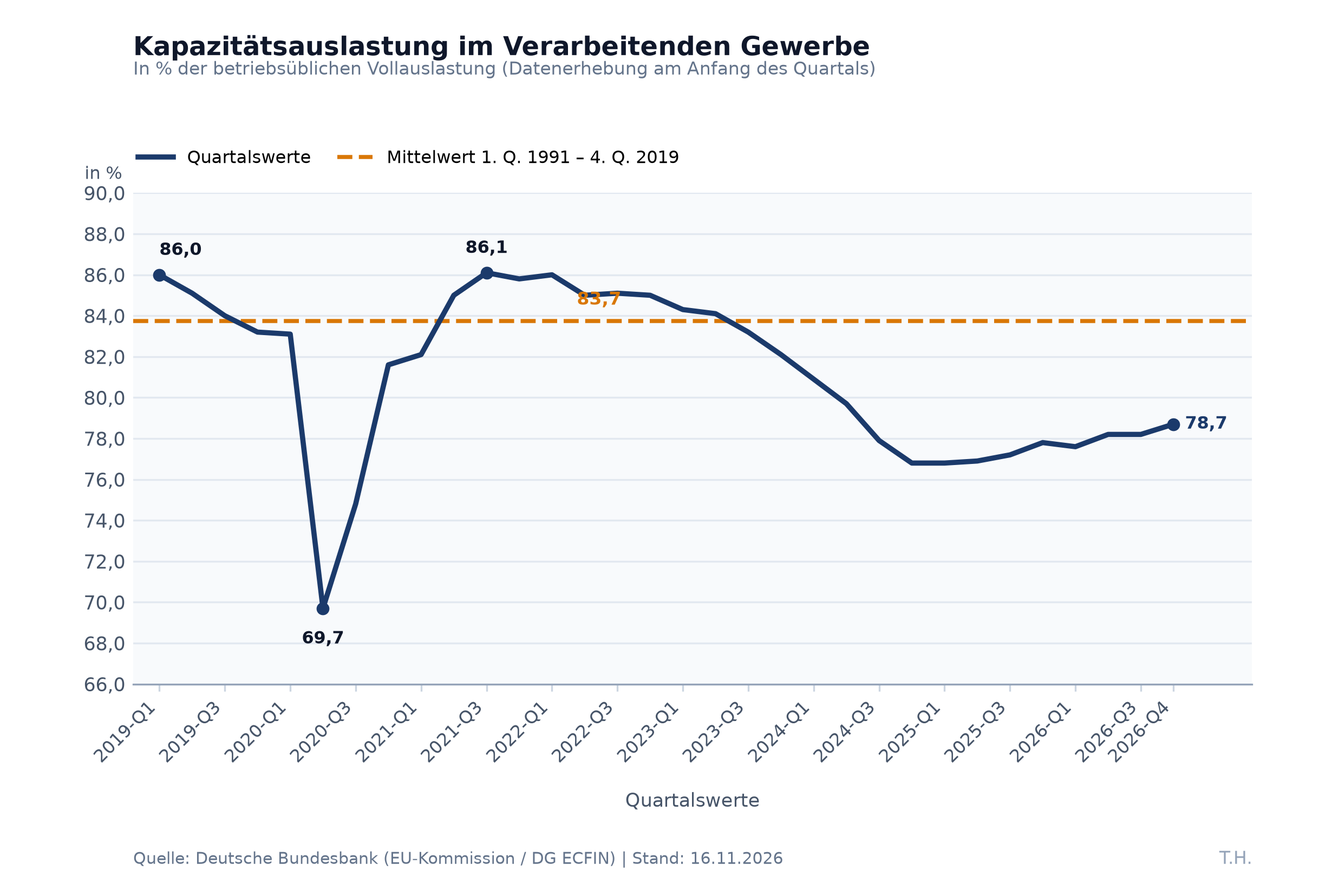
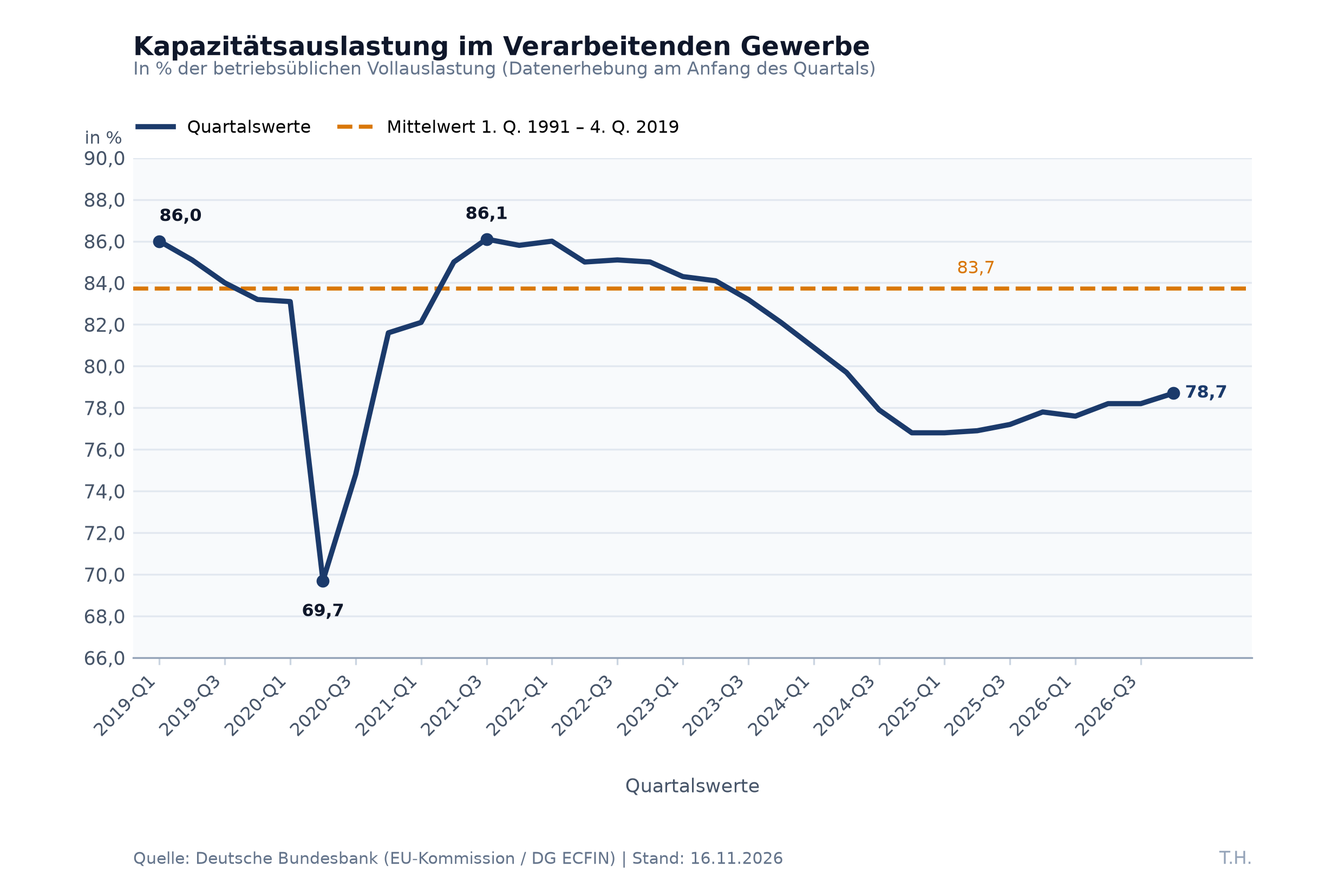
Update Kapazitaetsauslastung charts

Changed region(s): [[0.0618, 0.1235, 0.9268, 0.8642], [0.8341, 0.4321, 0.9268, 0.4938], [0.4634, 0.8951, 0.587, 0.9259]]

diff --git a/static/kapazitaetsauslastung/kapazitaetsauslastung.html b/static/kapazitaetsauslastung/kapazitaetsauslastung.html
@@ -5,7 +5,7 @@
     <style>html, body {height: 100%;}</style>
 </head>
 <body style="margin:0;padding:0;overflow:hidden;">
-    <div style="height:460px; width:100%;">                        <script>window.PlotlyConfig = {MathJaxConfig: 'local'};</script>
-        <script charset="utf-8" src="https://cdn.plot.ly/plotly-4.1.1.min.js" integrity="sha256-O24V1F27f8pb0glCkelh3cVHLNiHAJ5gCaVtq2aNch8=" crossorigin="anonymous"></script>                <div id="517f9091-6f31-4fb6-b747-08f232824f48" class="plotly-graph-div" style="height:100%; width:100%;"></div>            <script>                window.PLOTLYENV=window.PLOTLYENV || {};                                if (document.getElementById("517f9091-6f31-4fb6-b747-08f232824f48")) {                    Plotly.newPlot(                        "517f9091-6f31-4fb6-b747-08f232824f48",                        [{"customdata":["86,0","85,1","84,0","83,2","83,1","69,7","74,8","81,6","82,1","85,0","86,1","85,8","86,0","85,0","85,1","85,0","84,3","84,1","83,2","82,1","80,9","79,7","77,9","76,8","76,8","76,9","77,2","77,8","77,6","78,2","78,2","78,7"],"hovertemplate":"Quartalswerte: \u003cb\u003e%{customdata} %\u003c\u002fb\u003e\u003cextra\u003e\u003c\u002fextra\u003e","line":{"color":"#1B3A6B","width":2.4},"mode":"lines","name":"Quartalswerte","x":["2019-Q1","2019-Q2","2019-Q3","2019-Q4","2020-Q1","2020-Q2","2020-Q3","2020-Q4","2021-Q1","2021-Q2","2021-Q3","2021-Q4","2022-Q1","2022-Q2","2022-Q3","2022-Q4","2023-Q1","2023-Q2","2023-Q3","2023-Q4","2024-Q1","2024-Q2","2024-Q3","2024-Q4","2025-Q1","2025-Q2","2025-Q3","2025-Q4","2026-Q1","2026-Q2","2026-Q3","2026-Q4"],"y":[86.0,85.1,84.0,83.2,83.1,69.7,74.8,81.6,82.1,85.0,86.1,85.8,86.0,85.0,85.1,85.0,84.3,84.1,83.2,82.1,80.9,79.7,77.9,76.8,76.8,76.9,77.2,77.8,77.6,78.2,78.2,78.7],"type":"scatter"},{"customdata":["83,7","83,7","83,7","83,7","83,7","83,7","83,7","83,7","83,7","83,7","83,7","83,7","83,7","83,7","83,7","83,7","83,7","83,7","83,7","83,7","83,7","83,7","83,7","83,7","83,7","83,7","83,7","83,7","83,7","83,7","83,7","83,7"],"hovertemplate":"Mittelwert 1. Q. 1991 \u2013 4. Q. 2019: \u003cb\u003e%{customdata} %\u003c\u002fb\u003e\u003cextra\u003e\u003c\u002fextra\u003e","line":{"color":"#D97706","dash":"dash","width":1.9},"mode":"lines","name":"Mittelwert 1. Q. 1991 \u2013 4. Q. 2019","x":["2019-Q1","2019-Q2","2019-Q3","2019-Q4","2020-Q1","2020-Q2","2020-Q3","2020-Q4","2021-Q1","2021-Q2","2021-Q3","2021-Q4","2022-Q1","2022-Q2","2022-Q3","2022-Q4","2023-Q1","2023-Q2","2023-Q3","2023-Q4","2024-Q1","2024-Q2","2024-Q3","2024-Q4","2025-Q1","2025-Q2","2025-Q3","2025-Q4","2026-Q1","2026-Q2","2026-Q3","2026-Q4"],"y":[83.7,83.7,83.7,83.7,83.7,83.7,83.7,83.7,83.7,83.7,83.7,83.7,83.7,83.7,83.7,83.7,83.7,83.7,83.7,83.7,83.7,83.7,83.7,83.7,83.7,83.7,83.7,83.7,83.7,83.7,83.7,83.7],"type":"scatter"},{"hoverinfo":"skip","marker":{"color":"#1B3A6B","size":6},"mode":"markers+text","showlegend":false,"text":["86,0","69,7","86,1","78,7"],"textfont":{"color":"#0F172A","family":"DejaVu Sans, sans-serif","size":10},"textposition":["top center","bottom center","top center","middle right"],"x":["2019-Q1","2020-Q2","2021-Q3","2026-Q4"],"y":[86.0,69.7,86.1,78.7],"type":"scatter"}],                        {"template":{"data":{"histogram2dcontour":[{"type":"histogram2dcontour","colorbar":{"outlinewidth":0,"ticks":""},"colorscale":[[0.0,"#0d0887"],[0.1111111111111111,"#46039f"],[0.2222222222222222,"#7201a8"],[0.3333333333333333,"#9c179e"],[0.4444444444444444,"#bd3786"],[0.5555555555555556,"#d8576b"],[0.6666666666666666,"#ed7953"],[0.7777777777777778,"#fb9f3a"],[0.8888888888888888,"#fdca26"],[1.0,"#f0f921"]]}],"choropleth":[{"type":"choropleth","colorbar":{"outlinewidth":0,"ticks":""}}],"histogram2d":[{"type":"histogram2d","colorbar":{"outlinewidth":0,"ticks":""},"colorscale":[[0.0,"#0d0887"],[0.1111111111111111,"#46039f"],[0.2222222222222222,"#7201a8"],[0.3333333333333333,"#9c179e"],[0.4444444444444444,"#bd3786"],[0.5555555555555556,"#d8576b"],[0.6666666666666666,"#ed7953"],[0.7777777777777778,"#fb9f3a"],[0.8888888888888888,"#fdca26"],[1.0,"#f0f921"]]}],"heatmap":[{"type":"heatmap","colorbar":{"outlinewidth":0,"ticks":""},"colorscale":[[0.0,"#0d0887"],[0.1111111111111111,"#46039f"],[0.2222222222222222,"#7201a8"],[0.3333333333333333,"#9c179e"],[0.4444444444444444,"#bd3786"],[0.5555555555555556,"#d8576b"],[0.6666666666666666,"#ed7953"],[0.7777777777777778,"#fb9f3a"],[0.8888888888888888,"#fdca26"],[1.0,"#f0f921"]]}],"contourcarpet":[{"type":"contourcarpet","colorbar":{"outlinewidth":0,"ticks":""}}],"contour":[{"type":"contour","colorbar":{"outlinewidth":0,"ticks":""},"colorscale":[[0.0,"#0d0887"],[0.1111111111111111,"#46039f"],[0.2222222222222222,"#7201a8"],[0.3333333333333333,"#9c179e"],[0.4444444444444444,"#bd3786"],[0.5555555555555556,"#d8576b"],[0.6666666666666666,"#ed7953"],[0.7777777777777778,"#fb9f3a"],[0.8888888888888888,"#fdca26"],[1.0,"#f0f921"]]}],"surface":[{"type":"surface","colorbar":{"outlinewidth":0,"ticks":""},"colorscale":[[0.0,"#0d0887"],[0.1111111111111111,"#46039f"],[0.2222222222222222,"#7201a8"],[0.3333333333333333,"#9c179e"],[0.4444444444444444,"#bd3786"],[0.5555555555555556,"#d8576b"],[0.6666666666666666,"#ed7953"],[0.7777777777777778,"#fb9f3a"],[0.8888888888888888,"#fdca26"],[1.0,"#f0f921"]]}],"mesh3d":[{"type":"mesh3d","colorbar":{"outlinewidth":0,"ticks":""}}],"scatter":[{"fillpattern":{"fillmode":"overlay","size":10,"solidity":0.2},"type":"scatter"}],"parcoords":[{"type":"parcoords","line":{"colorbar":{"outlinewidth":0,"ticks":""}}}],"scatterpolargl":[{"type":"scatterpolargl","marker":{"colorbar":{"outlinewidth":0,"ticks":""}}}],"bar":[{"error_x":{"color":"#2a3f5f"},"error_y":{"color":"#2a3f5f"},"marker":{"line":{"color":"#E5ECF6","width":0.5},"pattern":{"fillmode":"overlay","size":10,"solidity":0.2}},"type":"bar"}],"scattergeo":[{"type":"scattergeo","marker":{"colorbar":{"outlinewidth":0,"ticks":""}}}],"scatterpolar":[{"type":"scatterpolar","marker":{"colorbar":{"outlinewidth":0,"ticks":""}}}],"histogram":[{"marker":{"pattern":{"fillmode":"overlay","size":10,"solidity":0.2}},"type":"histogram"}],"scattergl":[{"type":"scattergl","marker":{"colorbar":{"outlinewidth":0,"ticks":""}}}],"scatter3d":[{"type":"scatter3d","line":{"colorbar":{"outlinewidth":0,"ticks":""}},"marker":{"colorbar":{"outlinewidth":0,"ticks":""}}}],"scattermap":[{"type":"scattermap","marker":{"colorbar":{"outlinewidth":0,"ticks":""}}}],"scatterternary":[{"type":"scatterternary","marker":{"colorbar":{"outlinewidth":0,"ticks":""}}}],"scattercarpet":[{"type":"scattercarpet","marker":{"colorbar":{"outlinewidth":0,"ticks":""}}}],"carpet":[{"aaxis":{"endlinecolor":"#2a3f5f","gridcolor":"white","linecolor":"white","minorgridcolor":"white","startlinecolor":"#2a3f5f"},"baxis":{"endlinecolor":"#2a3f5f","gridcolor":"white","linecolor":"white","minorgridcolor":"white","startlinecolor":"#2a3f5f"},"type":"carpet"}],"table":[{"cells":{"fill":{"color":"#EBF0F8"},"line":{"color":"white"}},"header":{"fill":{"color":"#C8D4E3"},"line":{"color":"white"}},"type":"table"}],"barpolar":[{"marker":{"line":{"color":"#E5ECF6","width":0.5},"pattern":{"fillmode":"overlay","size":10,"solidity":0.2}},"type":"barpolar"}],"pie":[{"automargin":true,"type":"pie"}]},"layout":{"autotypenumbers":"strict","colorway":["#636efa","#EF553B","#00cc96","#ab63fa","#FFA15A","#19d3f3","#FF6692","#B6E880","#FF97FF","#FECB52"],"font":{"color":"#2a3f5f"},"hovermode":"closest","hoverlabel":{"align":"left"},"paper_bgcolor":"white","plot_bgcolor":"#E5ECF6","polar":{"bgcolor":"#E5ECF6","angularaxis":{"gridcolor":"white","linecolor":"white","ticks":""},"radialaxis":{"gridcolor":"white","linecolor":"white","ticks":""}},"ternary":{"bgcolor":"#E5ECF6","aaxis":{"gridcolor":"white","linecolor":"white","ticks":""},"baxis":{"gridcolor":"white","linecolor":"white","ticks":""},"caxis":{"gridcolor":"white","linecolor":"white","ticks":""}},"coloraxis":{"colorbar":{"outlinewidth":0,"ticks":""}},"colorscale":{"sequential":[[0.0,"#0d0887"],[0.1111111111111111,"#46039f"],[0.2222222222222222,"#7201a8"],[0.3333333333333333,"#9c179e"],[0.4444444444444444,"#bd3786"],[0.5555555555555556,"#d8576b"],[0.6666666666666666,"#ed7953"],[0.7777777777777778,"#fb9f3a"],[0.8888888888888888,"#fdca26"],[1.0,"#f0f921"]],"sequentialminus":[[0.0,"#0d0887"],[0.1111111111111111,"#46039f"],[0.2222222222222222,"#7201a8"],[0.3333333333333333,"#9c179e"],[0.4444444444444444,"#bd3786"],[0.5555555555555556,"#d8576b"],[0.6666666666666666,"#ed7953"],[0.7777777777777778,"#fb9f3a"],[0.8888888888888888,"#fdca26"],[1.0,"#f0f921"]],"diverging":[[0,"#8e0152"],[0.1,"#c51b7d"],[0.2,"#de77ae"],[0.3,"#f1b6da"],[0.4,"#fde0ef"],[0.5,"#f7f7f7"],[0.6,"#e6f5d0"],[0.7,"#b8e186"],[0.8,"#7fbc41"],[0.9,"#4d9221"],[1,"#276419"]]},"xaxis":{"gridcolor":"white","linecolor":"white","ticks":"","title":{"standoff":15},"zerolinecolor":"white","automargin":true,"zerolinewidth":2},"yaxis":{"gridcolor":"white","linecolor":"white","ticks":"","title":{"standoff":15},"zerolinecolor":"white","automargin":true,"zerolinewidth":2},"scene":{"xaxis":{"backgroundcolor":"#E5ECF6","gridcolor":"white","linecolor":"white","showbackground":true,"ticks":"","zerolinecolor":"white","gridwidth":2},"yaxis":{"backgroundcolor":"#E5ECF6","gridcolor":"white","linecolor":"white","showbackground":true,"ticks":"","zerolinecolor":"white","gridwidth":2},"zaxis":{"backgroundcolor":"#E5ECF6","gridcolor":"white","linecolor":"white","showbackground":true,"ticks":"","zerolinecolor":"white","gridwidth":2}},"shapedefaults":{"line":{"color":"#2a3f5f"}},"annotationdefaults":{"arrowcolor":"#2a3f5f","arrowhead":0,"arrowwidth":1},"geo":{"bgcolor":"white","landcolor":"#E5ECF6","subunitcolor":"white","showland":true,"showlakes":true,"lakecolor":"white"},"title":{"x":0.05}}},"title":{"font":{"size":15,"color":"#0F172A","family":"DejaVu Sans, sans-serif"},"text":"\u003cb\u003eKapazit\u00e4tsauslastung im Verarbeitenden Gewerbe\u003c\u002fb\u003e\u003cbr\u003e\u003cspan style='font-size:11.5px;color:#475569;'\u003eIn % der betriebs\u00fcblichen Vollauslastung (Datenerhebung am Anfang des Quartals)\u003c\u002fspan\u003e","x":0.03,"y":0.96,"yanchor":"top"},"hoverlabel":{"font":{"size":10.5,"color":"#0F172A"},"bgcolor":"white","bordercolor":"#CBD5E1","namelength":0},"legend":{"font":{"size":10.5,"color":"#1E293B"},"orientation":"h","x":0.0,"y":1.02,"xanchor":"left","yanchor":"bottom","bgcolor":"rgba(255,255,255,0)"},"margin":{"l":58,"r":42,"t":125,"b":85},"plot_bgcolor":"#F8FAFC","paper_bgcolor":"white","hovermode":"x unified","dragmode":false,"height":460,"annotations":[{"font":{"color":"#D97706","size":11},"showarrow":false,"text":"\u003cb\u003e83,7\u003c\u002fb\u003e","x":0.42,"xref":"paper","y":83.73017241379311,"yanchor":"bottom","yref":"y","yshift":4},{"font":{"color":"#64748B","size":10},"showarrow":false,"text":"Quelle: Deutsche Bundesbank (EU-Kommission \u002f DG ECFIN) | Stand: 16.11.2026","x":0.0,"xanchor":"left","xref":"paper","y":-0.24,"yref":"paper"},{"font":{"color":"#94A3B8","size":10.5},"showarrow":false,"text":"T.H.","x":1.0,"xanchor":"right","xref":"paper","y":-0.24,"yref":"paper"}],"xaxis":{"tickfont":{"size":10.5,"color":"#475569"},"type":"category","fixedrange":true,"tickangle":-45,"showgrid":false,"linecolor":"#94A3B8","tickmode":"array","tickvals":["2019-Q1","2019-Q3","2020-Q1","2020-Q3","2021-Q1","2021-Q3","2022-Q1","2022-Q3","2023-Q1","2023-Q3","2024-Q1","2024-Q3","2025-Q1","2025-Q3","2026-Q1","2026-Q3","2026-Q4"],"ticktext":["2019-Q1","2019-Q3","2020-Q1","2020-Q3","2021-Q1","2021-Q3","2022-Q1","2022-Q3","2023-Q1","2023-Q3","2024-Q1","2024-Q3","2025-Q1","2025-Q3","2026-Q1","2026-Q3","2026-Q4"]},"yaxis":{"tickfont":{"size":10.5,"color":"#475569"},"range":[66.0,90.0],"dtick":2.0,"fixedrange":true,"gridcolor":"#E2E8F0"},"separators":",."},                        {"displayModeBar": false, "responsive": true}                    )                };            </script>        </div>
+    <div style="height:425px; width:100%;">                        <script>window.PlotlyConfig = {MathJaxConfig: 'local'};</script>
+        <script charset="utf-8" src="https://cdn.plot.ly/plotly-4.1.1.min.js" integrity="sha256-O24V1F27f8pb0glCkelh3cVHLNiHAJ5gCaVtq2aNch8=" crossorigin="anonymous"></script>                <div id="0f7c035e-97f3-4017-815b-a8011cf2eb3c" class="plotly-graph-div" style="height:100%; width:100%;"></div>            <script>                window.PLOTLYENV=window.PLOTLYENV || {};                                if (document.getElementById("0f7c035e-97f3-4017-815b-a8011cf2eb3c")) {                    Plotly.newPlot(                        "0f7c035e-97f3-4017-815b-a8011cf2eb3c",                        [{"customdata":["86,0","85,1","84,0","83,2","83,1","69,7","74,8","81,6","82,1","85,0","86,1","85,8","86,0","85,0","85,1","85,0","84,3","84,1","83,2","82,1","80,9","79,7","77,9","76,8","76,8","76,9","77,2","77,8","77,6","78,2","78,2","78,7"],"hovertemplate":"Quartalswerte: \u003cb\u003e%{customdata} %\u003c\u002fb\u003e\u003cextra\u003e\u003c\u002fextra\u003e","line":{"color":"#1B3A6B","width":2.4},"mode":"lines","name":"Quartalswerte","x":["2019-Q1","2019-Q2","2019-Q3","2019-Q4","2020-Q1","2020-Q2","2020-Q3","2020-Q4","2021-Q1","2021-Q2","2021-Q3","2021-Q4","2022-Q1","2022-Q2","2022-Q3","2022-Q4","2023-Q1","2023-Q2","2023-Q3","2023-Q4","2024-Q1","2024-Q2","2024-Q3","2024-Q4","2025-Q1","2025-Q2","2025-Q3","2025-Q4","2026-Q1","2026-Q2","2026-Q3","2026-Q4"],"y":[86.0,85.1,84.0,83.2,83.1,69.7,74.8,81.6,82.1,85.0,86.1,85.8,86.0,85.0,85.1,85.0,84.3,84.1,83.2,82.1,80.9,79.7,77.9,76.8,76.8,76.9,77.2,77.8,77.6,78.2,78.2,78.7],"type":"scatter"},{"customdata":["83,7","83,7","83,7","83,7","83,7","83,7","83,7","83,7","83,7","83,7","83,7","83,7","83,7","83,7","83,7","83,7","83,7","83,7","83,7","83,7","83,7","83,7","83,7","83,7","83,7","83,7","83,7","83,7","83,7","83,7","83,7","83,7"],"hovertemplate":"Mittelwert 1. Q. 1991 \u2013 4. Q. 2019: \u003cb\u003e%{customdata} %\u003c\u002fb\u003e\u003cextra\u003e\u003c\u002fextra\u003e","line":{"color":"#D97706","dash":"dash","width":1.9},"mode":"lines","name":"Mittelwert 1. Q. 1991 \u2013 4. Q. 2019","x":["2019-Q1","2019-Q2","2019-Q3","2019-Q4","2020-Q1","2020-Q2","2020-Q3","2020-Q4","2021-Q1","2021-Q2","2021-Q3","2021-Q4","2022-Q1","2022-Q2","2022-Q3","2022-Q4","2023-Q1","2023-Q2","2023-Q3","2023-Q4","2024-Q1","2024-Q2","2024-Q3","2024-Q4","2025-Q1","2025-Q2","2025-Q3","2025-Q4","2026-Q1","2026-Q2","2026-Q3","2026-Q4"],"y":[83.7,83.7,83.7,83.7,83.7,83.7,83.7,83.7,83.7,83.7,83.7,83.7,83.7,83.7,83.7,83.7,83.7,83.7,83.7,83.7,83.7,83.7,83.7,83.7,83.7,83.7,83.7,83.7,83.7,83.7,83.7,83.7],"type":"scatter"},{"hoverinfo":"skip","marker":{"color":"#1B3A6B","size":6},"mode":"markers+text","showlegend":false,"text":["86,0","69,7","86,1","78,7"],"textfont":{"color":"#0F172A","family":"DejaVu Sans, sans-serif","size":10},"textposition":["top center","bottom center","top center","middle right"],"x":["2019-Q1","2020-Q2","2021-Q3","2026-Q4"],"y":[86.0,69.7,86.1,78.7],"type":"scatter"}],                        {"template":{"data":{"histogram2dcontour":[{"type":"histogram2dcontour","colorbar":{"outlinewidth":0,"ticks":""},"colorscale":[[0.0,"#0d0887"],[0.1111111111111111,"#46039f"],[0.2222222222222222,"#7201a8"],[0.3333333333333333,"#9c179e"],[0.4444444444444444,"#bd3786"],[0.5555555555555556,"#d8576b"],[0.6666666666666666,"#ed7953"],[0.7777777777777778,"#fb9f3a"],[0.8888888888888888,"#fdca26"],[1.0,"#f0f921"]]}],"choropleth":[{"type":"choropleth","colorbar":{"outlinewidth":0,"ticks":""}}],"histogram2d":[{"type":"histogram2d","colorbar":{"outlinewidth":0,"ticks":""},"colorscale":[[0.0,"#0d0887"],[0.1111111111111111,"#46039f"],[0.2222222222222222,"#7201a8"],[0.3333333333333333,"#9c179e"],[0.4444444444444444,"#bd3786"],[0.5555555555555556,"#d8576b"],[0.6666666666666666,"#ed7953"],[0.7777777777777778,"#fb9f3a"],[0.8888888888888888,"#fdca26"],[1.0,"#f0f921"]]}],"heatmap":[{"type":"heatmap","colorbar":{"outlinewidth":0,"ticks":""},"colorscale":[[0.0,"#0d0887"],[0.1111111111111111,"#46039f"],[0.2222222222222222,"#7201a8"],[0.3333333333333333,"#9c179e"],[0.4444444444444444,"#bd3786"],[0.5555555555555556,"#d8576b"],[0.6666666666666666,"#ed7953"],[0.7777777777777778,"#fb9f3a"],[0.8888888888888888,"#fdca26"],[1.0,"#f0f921"]]}],"contourcarpet":[{"type":"contourcarpet","colorbar":{"outlinewidth":0,"ticks":""}}],"contour":[{"type":"contour","colorbar":{"outlinewidth":0,"ticks":""},"colorscale":[[0.0,"#0d0887"],[0.1111111111111111,"#46039f"],[0.2222222222222222,"#7201a8"],[0.3333333333333333,"#9c179e"],[0.4444444444444444,"#bd3786"],[0.5555555555555556,"#d8576b"],[0.6666666666666666,"#ed7953"],[0.7777777777777778,"#fb9f3a"],[0.8888888888888888,"#fdca26"],[1.0,"#f0f921"]]}],"surface":[{"type":"surface","colorbar":{"outlinewidth":0,"ticks":""},"colorscale":[[0.0,"#0d0887"],[0.1111111111111111,"#46039f"],[0.2222222222222222,"#7201a8"],[0.3333333333333333,"#9c179e"],[0.4444444444444444,"#bd3786"],[0.5555555555555556,"#d8576b"],[0.6666666666666666,"#ed7953"],[0.7777777777777778,"#fb9f3a"],[0.8888888888888888,"#fdca26"],[1.0,"#f0f921"]]}],"mesh3d":[{"type":"mesh3d","colorbar":{"outlinewidth":0,"ticks":""}}],"scatter":[{"fillpattern":{"fillmode":"overlay","size":10,"solidity":0.2},"type":"scatter"}],"parcoords":[{"type":"parcoords","line":{"colorbar":{"outlinewidth":0,"ticks":""}}}],"scatterpolargl":[{"type":"scatterpolargl","marker":{"colorbar":{"outlinewidth":0,"ticks":""}}}],"bar":[{"error_x":{"color":"#2a3f5f"},"error_y":{"color":"#2a3f5f"},"marker":{"line":{"color":"#E5ECF6","width":0.5},"pattern":{"fillmode":"overlay","size":10,"solidity":0.2}},"type":"bar"}],"scattergeo":[{"type":"scattergeo","marker":{"colorbar":{"outlinewidth":0,"ticks":""}}}],"scatterpolar":[{"type":"scatterpolar","marker":{"colorbar":{"outlinewidth":0,"ticks":""}}}],"histogram":[{"marker":{"pattern":{"fillmode":"overlay","size":10,"solidity":0.2}},"type":"histogram"}],"scattergl":[{"type":"scattergl","marker":{"colorbar":{"outlinewidth":0,"ticks":""}}}],"scatter3d":[{"type":"scatter3d","line":{"colorbar":{"outlinewidth":0,"ticks":""}},"marker":{"colorbar":{"outlinewidth":0,"ticks":""}}}],"scattermap":[{"type":"scattermap","marker":{"colorbar":{"outlinewidth":0,"ticks":""}}}],"scatterternary":[{"type":"scatterternary","marker":{"colorbar":{"outlinewidth":0,"ticks":""}}}],"scattercarpet":[{"type":"scattercarpet","marker":{"colorbar":{"outlinewidth":0,"ticks":""}}}],"carpet":[{"aaxis":{"endlinecolor":"#2a3f5f","gridcolor":"white","linecolor":"white","minorgridcolor":"white","startlinecolor":"#2a3f5f"},"baxis":{"endlinecolor":"#2a3f5f","gridcolor":"white","linecolor":"white","minorgridcolor":"white","startlinecolor":"#2a3f5f"},"type":"carpet"}],"table":[{"cells":{"fill":{"color":"#EBF0F8"},"line":{"color":"white"}},"header":{"fill":{"color":"#C8D4E3"},"line":{"color":"white"}},"type":"table"}],"barpolar":[{"marker":{"line":{"color":"#E5ECF6","width":0.5},"pattern":{"fillmode":"overlay","size":10,"solidity":0.2}},"type":"barpolar"}],"pie":[{"automargin":true,"type":"pie"}]},"layout":{"autotypenumbers":"strict","colorway":["#636efa","#EF553B","#00cc96","#ab63fa","#FFA15A","#19d3f3","#FF6692","#B6E880","#FF97FF","#FECB52"],"font":{"color":"#2a3f5f"},"hovermode":"closest","hoverlabel":{"align":"left"},"paper_bgcolor":"white","plot_bgcolor":"#E5ECF6","polar":{"bgcolor":"#E5ECF6","angularaxis":{"gridcolor":"white","linecolor":"white","ticks":""},"radialaxis":{"gridcolor":"white","linecolor":"white","ticks":""}},"ternary":{"bgcolor":"#E5ECF6","aaxis":{"gridcolor":"white","linecolor":"white","ticks":""},"baxis":{"gridcolor":"white","linecolor":"white","ticks":""},"caxis":{"gridcolor":"white","linecolor":"white","ticks":""}},"coloraxis":{"colorbar":{"outlinewidth":0,"ticks":""}},"colorscale":{"sequential":[[0.0,"#0d0887"],[0.1111111111111111,"#46039f"],[0.2222222222222222,"#7201a8"],[0.3333333333333333,"#9c179e"],[0.4444444444444444,"#bd3786"],[0.5555555555555556,"#d8576b"],[0.6666666666666666,"#ed7953"],[0.7777777777777778,"#fb9f3a"],[0.8888888888888888,"#fdca26"],[1.0,"#f0f921"]],"sequentialminus":[[0.0,"#0d0887"],[0.1111111111111111,"#46039f"],[0.2222222222222222,"#7201a8"],[0.3333333333333333,"#9c179e"],[0.4444444444444444,"#bd3786"],[0.5555555555555556,"#d8576b"],[0.6666666666666666,"#ed7953"],[0.7777777777777778,"#fb9f3a"],[0.8888888888888888,"#fdca26"],[1.0,"#f0f921"]],"diverging":[[0,"#8e0152"],[0.1,"#c51b7d"],[0.2,"#de77ae"],[0.3,"#f1b6da"],[0.4,"#fde0ef"],[0.5,"#f7f7f7"],[0.6,"#e6f5d0"],[0.7,"#b8e186"],[0.8,"#7fbc41"],[0.9,"#4d9221"],[1,"#276419"]]},"xaxis":{"gridcolor":"white","linecolor":"white","ticks":"","title":{"standoff":15},"zerolinecolor":"white","automargin":true,"zerolinewidth":2},"yaxis":{"gridcolor":"white","linecolor":"white","ticks":"","title":{"standoff":15},"zerolinecolor":"white","automargin":true,"zerolinewidth":2},"scene":{"xaxis":{"backgroundcolor":"#E5ECF6","gridcolor":"white","linecolor":"white","showbackground":true,"ticks":"","zerolinecolor":"white","gridwidth":2},"yaxis":{"backgroundcolor":"#E5ECF6","gridcolor":"white","linecolor":"white","showbackground":true,"ticks":"","zerolinecolor":"white","gridwidth":2},"zaxis":{"backgroundcolor":"#E5ECF6","gridcolor":"white","linecolor":"white","showbackground":true,"ticks":"","zerolinecolor":"white","gridwidth":2}},"shapedefaults":{"line":{"color":"#2a3f5f"}},"annotationdefaults":{"arrowcolor":"#2a3f5f","arrowhead":0,"arrowwidth":1},"geo":{"bgcolor":"white","landcolor":"#E5ECF6","subunitcolor":"white","showland":true,"showlakes":true,"lakecolor":"white"},"title":{"x":0.05}}},"title":{"font":{"size":15,"color":"#0F172A","family":"DejaVu Sans, sans-serif"},"text":"\u003cb\u003eKapazit\u00e4tsauslastung im Verarbeitenden Gewerbe\u003c\u002fb\u003e\u003cbr\u003e\u003cspan style='font-size:11.5px;color:#475569;'\u003eIn % der betriebs\u00fcblichen Vollauslastung (Datenerhebung am Anfang des Quartals)\u003c\u002fspan\u003e","x":0.03,"y":0.96,"yanchor":"top"},"hoverlabel":{"font":{"size":10.5,"color":"#0F172A"},"bgcolor":"white","bordercolor":"#CBD5E1","namelength":0},"legend":{"font":{"size":10.5,"color":"#1E293B"},"orientation":"h","x":0.0,"y":1.01,"xanchor":"left","yanchor":"bottom","bgcolor":"rgba(255,255,255,0)"},"margin":{"l":58,"r":42,"t":88,"b":105},"plot_bgcolor":"#F8FAFC","paper_bgcolor":"white","hovermode":"x unified","dragmode":false,"height":425,"annotations":[{"font":{"color":"#D97706","family":"DejaVu Sans, sans-serif","size":10},"showarrow":false,"text":"83,7","x":0.78,"xref":"paper","y":83.73017241379311,"yanchor":"bottom","yref":"y","yshift":3},{"font":{"color":"#64748B","size":10},"showarrow":false,"text":"Quelle: Deutsche Bundesbank (EU-Kommission \u002f DG ECFIN) | Stand: 16.11.2026","x":0.0,"xanchor":"left","xref":"paper","y":-0.31,"yref":"paper"},{"font":{"color":"#94A3B8","size":10.5},"showarrow":false,"text":"T.H.","x":1.0,"xanchor":"right","xref":"paper","y":-0.31,"yref":"paper"}],"xaxis":{"tickfont":{"size":10.5,"color":"#475569"},"type":"category","fixedrange":true,"tickangle":-45,"showgrid":false,"linecolor":"#94A3B8","tickmode":"array","tickvals":["2019-Q1","2019-Q3","2020-Q1","2020-Q3","2021-Q1","2021-Q3","2022-Q1","2022-Q3","2023-Q1","2023-Q3","2024-Q1","2024-Q3","2025-Q1","2025-Q3","2026-Q1","2026-Q3"],"ticktext":["2019-Q1","2019-Q3","2020-Q1","2020-Q3","2021-Q1","2021-Q3","2022-Q1","2022-Q3","2023-Q1","2023-Q3","2024-Q1","2024-Q3","2025-Q1","2025-Q3","2026-Q1","2026-Q3"]},"yaxis":{"tickfont":{"size":10.5,"color":"#475569"},"range":[66.0,90.0],"dtick":2.0,"fixedrange":true,"gridcolor":"#E2E8F0"},"separators":",."},                        {"displayModeBar": false, "responsive": true}                    )                };            </script>        </div>
 </body>
 </html>

diff --git a/static/kapazitaetsauslastung/kapazitaetsauslastung_en.html b/static/kapazitaetsauslastung/kapazitaetsauslastung_en.html
@@ -5,7 +5,7 @@
     <style>html, body {height: 100%;}</style>
 </head>
 <body style="margin:0;padding:0;overflow:hidden;">
-    <div style="height:460px; width:100%;">                        <script>window.PlotlyConfig = {MathJaxConfig: 'local'};</script>
-        <script charset="utf-8" src="https://cdn.plot.ly/plotly-4.1.1.min.js" integrity="sha256-O24V1F27f8pb0glCkelh3cVHLNiHAJ5gCaVtq2aNch8=" crossorigin="anonymous"></script>                <div id="d3797ee9-850e-4dec-9035-72e244dc1d99" class="plotly-graph-div" style="height:100%; width:100%;"></div>            <script>                window.PLOTLYENV=window.PLOTLYENV || {};                                if (document.getElementById("d3797ee9-850e-4dec-9035-72e244dc1d99")) {                    Plotly.newPlot(                        "d3797ee9-850e-4dec-9035-72e244dc1d99",                        [{"customdata":["86.0","85.1","84.0","83.2","83.1","69.7","74.8","81.6","82.1","85.0","86.1","85.8","86.0","85.0","85.1","85.0","84.3","84.1","83.2","82.1","80.9","79.7","77.9","76.8","76.8","76.9","77.2","77.8","77.6","78.2","78.2","78.7"],"hovertemplate":"Quarterly values: \u003cb\u003e%{customdata} %\u003c\u002fb\u003e\u003cextra\u003e\u003c\u002fextra\u003e","line":{"color":"#1B3A6B","width":2.4},"mode":"lines","name":"Quarterly values","x":["2019-Q1","2019-Q2","2019-Q3","2019-Q4","2020-Q1","2020-Q2","2020-Q3","2020-Q4","2021-Q1","2021-Q2","2021-Q3","2021-Q4","2022-Q1","2022-Q2","2022-Q3","2022-Q4","2023-Q1","2023-Q2","2023-Q3","2023-Q4","2024-Q1","2024-Q2","2024-Q3","2024-Q4","2025-Q1","2025-Q2","2025-Q3","2025-Q4","2026-Q1","2026-Q2","2026-Q3","2026-Q4"],"y":[86.0,85.1,84.0,83.2,83.1,69.7,74.8,81.6,82.1,85.0,86.1,85.8,86.0,85.0,85.1,85.0,84.3,84.1,83.2,82.1,80.9,79.7,77.9,76.8,76.8,76.9,77.2,77.8,77.6,78.2,78.2,78.7],"type":"scatter"},{"customdata":["83.7","83.7","83.7","83.7","83.7","83.7","83.7","83.7","83.7","83.7","83.7","83.7","83.7","83.7","83.7","83.7","83.7","83.7","83.7","83.7","83.7","83.7","83.7","83.7","83.7","83.7","83.7","83.7","83.7","83.7","83.7","83.7"],"hovertemplate":"Mean Q1 1991 \u2013 Q4 2019: \u003cb\u003e%{customdata} %\u003c\u002fb\u003e\u003cextra\u003e\u003c\u002fextra\u003e","line":{"color":"#D97706","dash":"dash","width":1.9},"mode":"lines","name":"Mean Q1 1991 \u2013 Q4 2019","x":["2019-Q1","2019-Q2","2019-Q3","2019-Q4","2020-Q1","2020-Q2","2020-Q3","2020-Q4","2021-Q1","2021-Q2","2021-Q3","2021-Q4","2022-Q1","2022-Q2","2022-Q3","2022-Q4","2023-Q1","2023-Q2","2023-Q3","2023-Q4","2024-Q1","2024-Q2","2024-Q3","2024-Q4","2025-Q1","2025-Q2","2025-Q3","2025-Q4","2026-Q1","2026-Q2","2026-Q3","2026-Q4"],"y":[83.7,83.7,83.7,83.7,83.7,83.7,83.7,83.7,83.7,83.7,83.7,83.7,83.7,83.7,83.7,83.7,83.7,83.7,83.7,83.7,83.7,83.7,83.7,83.7,83.7,83.7,83.7,83.7,83.7,83.7,83.7,83.7],"type":"scatter"},{"hoverinfo":"skip","marker":{"color":"#1B3A6B","size":6},"mode":"markers+text","showlegend":false,"text":["86.0","69.7","86.1","78.7"],"textfont":{"color":"#0F172A","family":"DejaVu Sans, sans-serif","size":10},"textposition":["top center","bottom center","top center","middle right"],"x":["2019-Q1","2020-Q2","2021-Q3","2026-Q4"],"y":[86.0,69.7,86.1,78.7],"type":"scatter"}],                        {"template":{"data":{"histogram2dcontour":[{"type":"histogram2dcontour","colorbar":{"outlinewidth":0,"ticks":""},"colorscale":[[0.0,"#0d0887"],[0.1111111111111111,"#46039f"],[0.2222222222222222,"#7201a8"],[0.3333333333333333,"#9c179e"],[0.4444444444444444,"#bd3786"],[0.5555555555555556,"#d8576b"],[0.6666666666666666,"#ed7953"],[0.7777777777777778,"#fb9f3a"],[0.8888888888888888,"#fdca26"],[1.0,"#f0f921"]]}],"choropleth":[{"type":"choropleth","colorbar":{"outlinewidth":0,"ticks":""}}],"histogram2d":[{"type":"histogram2d","colorbar":{"outlinewidth":0,"ticks":""},"colorscale":[[0.0,"#0d0887"],[0.1111111111111111,"#46039f"],[0.2222222222222222,"#7201a8"],[0.3333333333333333,"#9c179e"],[0.4444444444444444,"#bd3786"],[0.5555555555555556,"#d8576b"],[0.6666666666666666,"#ed7953"],[0.7777777777777778,"#fb9f3a"],[0.8888888888888888,"#fdca26"],[1.0,"#f0f921"]]}],"heatmap":[{"type":"heatmap","colorbar":{"outlinewidth":0,"ticks":""},"colorscale":[[0.0,"#0d0887"],[0.1111111111111111,"#46039f"],[0.2222222222222222,"#7201a8"],[0.3333333333333333,"#9c179e"],[0.4444444444444444,"#bd3786"],[0.5555555555555556,"#d8576b"],[0.6666666666666666,"#ed7953"],[0.7777777777777778,"#fb9f3a"],[0.8888888888888888,"#fdca26"],[1.0,"#f0f921"]]}],"contourcarpet":[{"type":"contourcarpet","colorbar":{"outlinewidth":0,"ticks":""}}],"contour":[{"type":"contour","colorbar":{"outlinewidth":0,"ticks":""},"colorscale":[[0.0,"#0d0887"],[0.1111111111111111,"#46039f"],[0.2222222222222222,"#7201a8"],[0.3333333333333333,"#9c179e"],[0.4444444444444444,"#bd3786"],[0.5555555555555556,"#d8576b"],[0.6666666666666666,"#ed7953"],[0.7777777777777778,"#fb9f3a"],[0.8888888888888888,"#fdca26"],[1.0,"#f0f921"]]}],"surface":[{"type":"surface","colorbar":{"outlinewidth":0,"ticks":""},"colorscale":[[0.0,"#0d0887"],[0.1111111111111111,"#46039f"],[0.2222222222222222,"#7201a8"],[0.3333333333333333,"#9c179e"],[0.4444444444444444,"#bd3786"],[0.5555555555555556,"#d8576b"],[0.6666666666666666,"#ed7953"],[0.7777777777777778,"#fb9f3a"],[0.8888888888888888,"#fdca26"],[1.0,"#f0f921"]]}],"mesh3d":[{"type":"mesh3d","colorbar":{"outlinewidth":0,"ticks":""}}],"scatter":[{"fillpattern":{"fillmode":"overlay","size":10,"solidity":0.2},"type":"scatter"}],"parcoords":[{"type":"parcoords","line":{"colorbar":{"outlinewidth":0,"ticks":""}}}],"scatterpolargl":[{"type":"scatterpolargl","marker":{"colorbar":{"outlinewidth":0,"ticks":""}}}],"bar":[{"error_x":{"color":"#2a3f5f"},"error_y":{"color":"#2a3f5f"},"marker":{"line":{"color":"#E5ECF6","width":0.5},"pattern":{"fillmode":"overlay","size":10,"solidity":0.2}},"type":"bar"}],"scattergeo":[{"type":"scattergeo","marker":{"colorbar":{"outlinewidth":0,"ticks":""}}}],"scatterpolar":[{"type":"scatterpolar","marker":{"colorbar":{"outlinewidth":0,"ticks":""}}}],"histogram":[{"marker":{"pattern":{"fillmode":"overlay","size":10,"solidity":0.2}},"type":"histogram"}],"scattergl":[{"type":"scattergl","marker":{"colorbar":{"outlinewidth":0,"ticks":""}}}],"scatter3d":[{"type":"scatter3d","line":{"colorbar":{"outlinewidth":0,"ticks":""}},"marker":{"colorbar":{"outlinewidth":0,"ticks":""}}}],"scattermap":[{"type":"scattermap","marker":{"colorbar":{"outlinewidth":0,"ticks":""}}}],"scatterternary":[{"type":"scatterternary","marker":{"colorbar":{"outlinewidth":0,"ticks":""}}}],"scattercarpet":[{"type":"scattercarpet","marker":{"colorbar":{"outlinewidth":0,"ticks":""}}}],"carpet":[{"aaxis":{"endlinecolor":"#2a3f5f","gridcolor":"white","linecolor":"white","minorgridcolor":"white","startlinecolor":"#2a3f5f"},"baxis":{"endlinecolor":"#2a3f5f","gridcolor":"white","linecolor":"white","minorgridcolor":"white","startlinecolor":"#2a3f5f"},"type":"carpet"}],"table":[{"cells":{"fill":{"color":"#EBF0F8"},"line":{"color":"white"}},"header":{"fill":{"color":"#C8D4E3"},"line":{"color":"white"}},"type":"table"}],"barpolar":[{"marker":{"line":{"color":"#E5ECF6","width":0.5},"pattern":{"fillmode":"overlay","size":10,"solidity":0.2}},"type":"barpolar"}],"pie":[{"automargin":true,"type":"pie"}]},"layout":{"autotypenumbers":"strict","colorway":["#636efa","#EF553B","#00cc96","#ab63fa","#FFA15A","#19d3f3","#FF6692","#B6E880","#FF97FF","#FECB52"],"font":{"color":"#2a3f5f"},"hovermode":"closest","hoverlabel":{"align":"left"},"paper_bgcolor":"white","plot_bgcolor":"#E5ECF6","polar":{"bgcolor":"#E5ECF6","angularaxis":{"gridcolor":"white","linecolor":"white","ticks":""},"radialaxis":{"gridcolor":"white","linecolor":"white","ticks":""}},"ternary":{"bgcolor":"#E5ECF6","aaxis":{"gridcolor":"white","linecolor":"white","ticks":""},"baxis":{"gridcolor":"white","linecolor":"white","ticks":""},"caxis":{"gridcolor":"white","linecolor":"white","ticks":""}},"coloraxis":{"colorbar":{"outlinewidth":0,"ticks":""}},"colorscale":{"sequential":[[0.0,"#0d0887"],[0.1111111111111111,"#46039f"],[0.2222222222222222,"#7201a8"],[0.3333333333333333,"#9c179e"],[0.4444444444444444,"#bd3786"],[0.5555555555555556,"#d8576b"],[0.6666666666666666,"#ed7953"],[0.7777777777777778,"#fb9f3a"],[0.8888888888888888,"#fdca26"],[1.0,"#f0f921"]],"sequentialminus":[[0.0,"#0d0887"],[0.1111111111111111,"#46039f"],[0.2222222222222222,"#7201a8"],[0.3333333333333333,"#9c179e"],[0.4444444444444444,"#bd3786"],[0.5555555555555556,"#d8576b"],[0.6666666666666666,"#ed7953"],[0.7777777777777778,"#fb9f3a"],[0.8888888888888888,"#fdca26"],[1.0,"#f0f921"]],"diverging":[[0,"#8e0152"],[0.1,"#c51b7d"],[0.2,"#de77ae"],[0.3,"#f1b6da"],[0.4,"#fde0ef"],[0.5,"#f7f7f7"],[0.6,"#e6f5d0"],[0.7,"#b8e186"],[0.8,"#7fbc41"],[0.9,"#4d9221"],[1,"#276419"]]},"xaxis":{"gridcolor":"white","linecolor":"white","ticks":"","title":{"standoff":15},"zerolinecolor":"white","automargin":true,"zerolinewidth":2},"yaxis":{"gridcolor":"white","linecolor":"white","ticks":"","title":{"standoff":15},"zerolinecolor":"white","automargin":true,"zerolinewidth":2},"scene":{"xaxis":{"backgroundcolor":"#E5ECF6","gridcolor":"white","linecolor":"white","showbackground":true,"ticks":"","zerolinecolor":"white","gridwidth":2},"yaxis":{"backgroundcolor":"#E5ECF6","gridcolor":"white","linecolor":"white","showbackground":true,"ticks":"","zerolinecolor":"white","gridwidth":2},"zaxis":{"backgroundcolor":"#E5ECF6","gridcolor":"white","linecolor":"white","showbackground":true,"ticks":"","zerolinecolor":"white","gridwidth":2}},"shapedefaults":{"line":{"color":"#2a3f5f"}},"annotationdefaults":{"arrowcolor":"#2a3f5f","arrowhead":0,"arrowwidth":1},"geo":{"bgcolor":"white","landcolor":"#E5ECF6","subunitcolor":"white","showland":true,"showlakes":true,"lakecolor":"white"},"title":{"x":0.05}}},"title":{"font":{"size":15,"color":"#0F172A","family":"DejaVu Sans, sans-serif"},"text":"\u003cb\u003eCapacity Utilisation in Manufacturing\u003c\u002fb\u003e\u003cbr\u003e\u003cspan style='font-size:11.5px;color:#475569;'\u003eIn % of full operating capacity (survey conducted at the beginning of the quarter)\u003c\u002fspan\u003e","x":0.03,"y":0.96,"yanchor":"top"},"hoverlabel":{"font":{"size":10.5,"color":"#0F172A"},"bgcolor":"white","bordercolor":"#CBD5E1","namelength":0},"legend":{"font":{"size":10.5,"color":"#1E293B"},"orientation":"h","x":0.0,"y":1.02,"xanchor":"left","yanchor":"bottom","bgcolor":"rgba(255,255,255,0)"},"margin":{"l":58,"r":42,"t":125,"b":85},"plot_bgcolor":"#F8FAFC","paper_bgcolor":"white","hovermode":"x unified","dragmode":false,"height":460,"annotations":[{"font":{"color":"#D97706","size":11},"showarrow":false,"text":"\u003cb\u003e83.7\u003c\u002fb\u003e","x":0.42,"xref":"paper","y":83.73017241379311,"yanchor":"bottom","yref":"y","yshift":4},{"font":{"color":"#64748B","size":10},"showarrow":false,"text":"Source: Deutsche Bundesbank (European Commission \u002f DG ECFIN) | As of: 2026-11-16","x":0.0,"xanchor":"left","xref":"paper","y":-0.24,"yref":"paper"},{"font":{"color":"#94A3B8","size":10.5},"showarrow":false,"text":"T.H.","x":1.0,"xanchor":"right","xref":"paper","y":-0.24,"yref":"paper"}],"xaxis":{"tickfont":{"size":10.5,"color":"#475569"},"type":"category","fixedrange":true,"tickangle":-45,"showgrid":false,"linecolor":"#94A3B8","tickmode":"array","tickvals":["2019-Q1","2019-Q3","2020-Q1","2020-Q3","2021-Q1","2021-Q3","2022-Q1","2022-Q3","2023-Q1","2023-Q3","2024-Q1","2024-Q3","2025-Q1","2025-Q3","2026-Q1","2026-Q3","2026-Q4"],"ticktext":["2019-Q1","2019-Q3","2020-Q1","2020-Q3","2021-Q1","2021-Q3","2022-Q1","2022-Q3","2023-Q1","2023-Q3","2024-Q1","2024-Q3","2025-Q1","2025-Q3","2026-Q1","2026-Q3","2026-Q4"]},"yaxis":{"tickfont":{"size":10.5,"color":"#475569"},"range":[66.0,90.0],"dtick":2.0,"fixedrange":true,"gridcolor":"#E2E8F0"}},                        {"displayModeBar": false, "responsive": true}                    )                };            </script>        </div>
+    <div style="height:425px; width:100%;">                        <script>window.PlotlyConfig = {MathJaxConfig: 'local'};</script>
+        <script charset="utf-8" src="https://cdn.plot.ly/plotly-4.1.1.min.js" integrity="sha256-O24V1F27f8pb0glCkelh3cVHLNiHAJ5gCaVtq2aNch8=" crossorigin="anonymous"></script>                <div id="dde39042-c316-4bba-94af-e017c412a7f4" class="plotly-graph-div" style="height:100%; width:100%;"></div>            <script>                window.PLOTLYENV=window.PLOTLYENV || {};                                if (document.getElementById("dde39042-c316-4bba-94af-e017c412a7f4")) {                    Plotly.newPlot(                        "dde39042-c316-4bba-94af-e017c412a7f4",                        [{"customdata":["86.0","85.1","84.0","83.2","83.1","69.7","74.8","81.6","82.1","85.0","86.1","85.8","86.0","85.0","85.1","85.0","84.3","84.1","83.2","82.1","80.9","79.7","77.9","76.8","76.8","76.9","77.2","77.8","77.6","78.2","78.2","78.7"],"hovertemplate":"Quarterly values: \u003cb\u003e%{customdata} %\u003c\u002fb\u003e\u003cextra\u003e\u003c\u002fextra\u003e","line":{"color":"#1B3A6B","width":2.4},"mode":"lines","name":"Quarterly values","x":["2019-Q1","2019-Q2","2019-Q3","2019-Q4","2020-Q1","2020-Q2","2020-Q3","2020-Q4","2021-Q1","2021-Q2","2021-Q3","2021-Q4","2022-Q1","2022-Q2","2022-Q3","2022-Q4","2023-Q1","2023-Q2","2023-Q3","2023-Q4","2024-Q1","2024-Q2","2024-Q3","2024-Q4","2025-Q1","2025-Q2","2025-Q3","2025-Q4","2026-Q1","2026-Q2","2026-Q3","2026-Q4"],"y":[86.0,85.1,84.0,83.2,83.1,69.7,74.8,81.6,82.1,85.0,86.1,85.8,86.0,85.0,85.1,85.0,84.3,84.1,83.2,82.1,80.9,79.7,77.9,76.8,76.8,76.9,77.2,77.8,77.6,78.2,78.2,78.7],"type":"scatter"},{"customdata":["83.7","83.7","83.7","83.7","83.7","83.7","83.7","83.7","83.7","83.7","83.7","83.7","83.7","83.7","83.7","83.7","83.7","83.7","83.7","83.7","83.7","83.7","83.7","83.7","83.7","83.7","83.7","83.7","83.7","83.7","83.7","83.7"],"hovertemplate":"Mean Q1 1991 \u2013 Q4 2019: \u003cb\u003e%{customdata} %\u003c\u002fb\u003e\u003cextra\u003e\u003c\u002fextra\u003e","line":{"color":"#D97706","dash":"dash","width":1.9},"mode":"lines","name":"Mean Q1 1991 \u2013 Q4 2019","x":["2019-Q1","2019-Q2","2019-Q3","2019-Q4","2020-Q1","2020-Q2","2020-Q3","2020-Q4","2021-Q1","2021-Q2","2021-Q3","2021-Q4","2022-Q1","2022-Q2","2022-Q3","2022-Q4","2023-Q1","2023-Q2","2023-Q3","2023-Q4","2024-Q1","2024-Q2","2024-Q3","2024-Q4","2025-Q1","2025-Q2","2025-Q3","2025-Q4","2026-Q1","2026-Q2","2026-Q3","2026-Q4"],"y":[83.7,83.7,83.7,83.7,83.7,83.7,83.7,83.7,83.7,83.7,83.7,83.7,83.7,83.7,83.7,83.7,83.7,83.7,83.7,83.7,83.7,83.7,83.7,83.7,83.7,83.7,83.7,83.7,83.7,83.7,83.7,83.7],"type":"scatter"},{"hoverinfo":"skip","marker":{"color":"#1B3A6B","size":6},"mode":"markers+text","showlegend":false,"text":["86.0","69.7","86.1","78.7"],"textfont":{"color":"#0F172A","family":"DejaVu Sans, sans-serif","size":10},"textposition":["top center","bottom center","top center","middle right"],"x":["2019-Q1","2020-Q2","2021-Q3","2026-Q4"],"y":[86.0,69.7,86.1,78.7],"type":"scatter"}],                        {"template":{"data":{"histogram2dcontour":[{"type":"histogram2dcontour","colorbar":{"outlinewidth":0,"ticks":""},"colorscale":[[0.0,"#0d0887"],[0.1111111111111111,"#46039f"],[0.2222222222222222,"#7201a8"],[0.3333333333333333,"#9c179e"],[0.4444444444444444,"#bd3786"],[0.5555555555555556,"#d8576b"],[0.6666666666666666,"#ed7953"],[0.7777777777777778,"#fb9f3a"],[0.8888888888888888,"#fdca26"],[1.0,"#f0f921"]]}],"choropleth":[{"type":"choropleth","colorbar":{"outlinewidth":0,"ticks":""}}],"histogram2d":[{"type":"histogram2d","colorbar":{"outlinewidth":0,"ticks":""},"colorscale":[[0.0,"#0d0887"],[0.1111111111111111,"#46039f"],[0.2222222222222222,"#7201a8"],[0.3333333333333333,"#9c179e"],[0.4444444444444444,"#bd3786"],[0.5555555555555556,"#d8576b"],[0.6666666666666666,"#ed7953"],[0.7777777777777778,"#fb9f3a"],[0.8888888888888888,"#fdca26"],[1.0,"#f0f921"]]}],"heatmap":[{"type":"heatmap","colorbar":{"outlinewidth":0,"ticks":""},"colorscale":[[0.0,"#0d0887"],[0.1111111111111111,"#46039f"],[0.2222222222222222,"#7201a8"],[0.3333333333333333,"#9c179e"],[0.4444444444444444,"#bd3786"],[0.5555555555555556,"#d8576b"],[0.6666666666666666,"#ed7953"],[0.7777777777777778,"#fb9f3a"],[0.8888888888888888,"#fdca26"],[1.0,"#f0f921"]]}],"contourcarpet":[{"type":"contourcarpet","colorbar":{"outlinewidth":0,"ticks":""}}],"contour":[{"type":"contour","colorbar":{"outlinewidth":0,"ticks":""},"colorscale":[[0.0,"#0d0887"],[0.1111111111111111,"#46039f"],[0.2222222222222222,"#7201a8"],[0.3333333333333333,"#9c179e"],[0.4444444444444444,"#bd3786"],[0.5555555555555556,"#d8576b"],[0.6666666666666666,"#ed7953"],[0.7777777777777778,"#fb9f3a"],[0.8888888888888888,"#fdca26"],[1.0,"#f0f921"]]}],"surface":[{"type":"surface","colorbar":{"outlinewidth":0,"ticks":""},"colorscale":[[0.0,"#0d0887"],[0.1111111111111111,"#46039f"],[0.2222222222222222,"#7201a8"],[0.3333333333333333,"#9c179e"],[0.4444444444444444,"#bd3786"],[0.5555555555555556,"#d8576b"],[0.6666666666666666,"#ed7953"],[0.7777777777777778,"#fb9f3a"],[0.8888888888888888,"#fdca26"],[1.0,"#f0f921"]]}],"mesh3d":[{"type":"mesh3d","colorbar":{"outlinewidth":0,"ticks":""}}],"scatter":[{"fillpattern":{"fillmode":"overlay","size":10,"solidity":0.2},"type":"scatter"}],"parcoords":[{"type":"parcoords","line":{"colorbar":{"outlinewidth":0,"ticks":""}}}],"scatterpolargl":[{"type":"scatterpolargl","marker":{"colorbar":{"outlinewidth":0,"ticks":""}}}],"bar":[{"error_x":{"color":"#2a3f5f"},"error_y":{"color":"#2a3f5f"},"marker":{"line":{"color":"#E5ECF6","width":0.5},"pattern":{"fillmode":"overlay","size":10,"solidity":0.2}},"type":"bar"}],"scattergeo":[{"type":"scattergeo","marker":{"colorbar":{"outlinewidth":0,"ticks":""}}}],"scatterpolar":[{"type":"scatterpolar","marker":{"colorbar":{"outlinewidth":0,"ticks":""}}}],"histogram":[{"marker":{"pattern":{"fillmode":"overlay","size":10,"solidity":0.2}},"type":"histogram"}],"scattergl":[{"type":"scattergl","marker":{"colorbar":{"outlinewidth":0,"ticks":""}}}],"scatter3d":[{"type":"scatter3d","line":{"colorbar":{"outlinewidth":0,"ticks":""}},"marker":{"colorbar":{"outlinewidth":0,"ticks":""}}}],"scattermap":[{"type":"scattermap","marker":{"colorbar":{"outlinewidth":0,"ticks":""}}}],"scatterternary":[{"type":"scatterternary","marker":{"colorbar":{"outlinewidth":0,"ticks":""}}}],"scattercarpet":[{"type":"scattercarpet","marker":{"colorbar":{"outlinewidth":0,"ticks":""}}}],"carpet":[{"aaxis":{"endlinecolor":"#2a3f5f","gridcolor":"white","linecolor":"white","minorgridcolor":"white","startlinecolor":"#2a3f5f"},"baxis":{"endlinecolor":"#2a3f5f","gridcolor":"white","linecolor":"white","minorgridcolor":"white","startlinecolor":"#2a3f5f"},"type":"carpet"}],"table":[{"cells":{"fill":{"color":"#EBF0F8"},"line":{"color":"white"}},"header":{"fill":{"color":"#C8D4E3"},"line":{"color":"white"}},"type":"table"}],"barpolar":[{"marker":{"line":{"color":"#E5ECF6","width":0.5},"pattern":{"fillmode":"overlay","size":10,"solidity":0.2}},"type":"barpolar"}],"pie":[{"automargin":true,"type":"pie"}]},"layout":{"autotypenumbers":"strict","colorway":["#636efa","#EF553B","#00cc96","#ab63fa","#FFA15A","#19d3f3","#FF6692","#B6E880","#FF97FF","#FECB52"],"font":{"color":"#2a3f5f"},"hovermode":"closest","hoverlabel":{"align":"left"},"paper_bgcolor":"white","plot_bgcolor":"#E5ECF6","polar":{"bgcolor":"#E5ECF6","angularaxis":{"gridcolor":"white","linecolor":"white","ticks":""},"radialaxis":{"gridcolor":"white","linecolor":"white","ticks":""}},"ternary":{"bgcolor":"#E5ECF6","aaxis":{"gridcolor":"white","linecolor":"white","ticks":""},"baxis":{"gridcolor":"white","linecolor":"white","ticks":""},"caxis":{"gridcolor":"white","linecolor":"white","ticks":""}},"coloraxis":{"colorbar":{"outlinewidth":0,"ticks":""}},"colorscale":{"sequential":[[0.0,"#0d0887"],[0.1111111111111111,"#46039f"],[0.2222222222222222,"#7201a8"],[0.3333333333333333,"#9c179e"],[0.4444444444444444,"#bd3786"],[0.5555555555555556,"#d8576b"],[0.6666666666666666,"#ed7953"],[0.7777777777777778,"#fb9f3a"],[0.8888888888888888,"#fdca26"],[1.0,"#f0f921"]],"sequentialminus":[[0.0,"#0d0887"],[0.1111111111111111,"#46039f"],[0.2222222222222222,"#7201a8"],[0.3333333333333333,"#9c179e"],[0.4444444444444444,"#bd3786"],[0.5555555555555556,"#d8576b"],[0.6666666666666666,"#ed7953"],[0.7777777777777778,"#fb9f3a"],[0.8888888888888888,"#fdca26"],[1.0,"#f0f921"]],"diverging":[[0,"#8e0152"],[0.1,"#c51b7d"],[0.2,"#de77ae"],[0.3,"#f1b6da"],[0.4,"#fde0ef"],[0.5,"#f7f7f7"],[0.6,"#e6f5d0"],[0.7,"#b8e186"],[0.8,"#7fbc41"],[0.9,"#4d9221"],[1,"#276419"]]},"xaxis":{"gridcolor":"white","linecolor":"white","ticks":"","title":{"standoff":15},"zerolinecolor":"white","automargin":true,"zerolinewidth":2},"yaxis":{"gridcolor":"white","linecolor":"white","ticks":"","title":{"standoff":15},"zerolinecolor":"white","automargin":true,"zerolinewidth":2},"scene":{"xaxis":{"backgroundcolor":"#E5ECF6","gridcolor":"white","linecolor":"white","showbackground":true,"ticks":"","zerolinecolor":"white","gridwidth":2},"yaxis":{"backgroundcolor":"#E5ECF6","gridcolor":"white","linecolor":"white","showbackground":true,"ticks":"","zerolinecolor":"white","gridwidth":2},"zaxis":{"backgroundcolor":"#E5ECF6","gridcolor":"white","linecolor":"white","showbackground":true,"ticks":"","zerolinecolor":"white","gridwidth":2}},"shapedefaults":{"line":{"color":"#2a3f5f"}},"annotationdefaults":{"arrowcolor":"#2a3f5f","arrowhead":0,"arrowwidth":1},"geo":{"bgcolor":"white","landcolor":"#E5ECF6","subunitcolor":"white","showland":true,"showlakes":true,"lakecolor":"white"},"title":{"x":0.05}}},"title":{"font":{"size":15,"color":"#0F172A","family":"DejaVu Sans, sans-serif"},"text":"\u003cb\u003eCapacity Utilisation in Manufacturing\u003c\u002fb\u003e\u003cbr\u003e\u003cspan style='font-size:11.5px;color:#475569;'\u003eIn % of full operating capacity (survey conducted at the beginning of the quarter)\u003c\u002fspan\u003e","x":0.03,"y":0.96,"yanchor":"top"},"hoverlabel":{"font":{"size":10.5,"color":"#0F172A"},"bgcolor":"white","bordercolor":"#CBD5E1","namelength":0},"legend":{"font":{"size":10.5,"color":"#1E293B"},"orientation":"h","x":0.0,"y":1.01,"xanchor":"left","yanchor":"bottom","bgcolor":"rgba(255,255,255,0)"},"margin":{"l":58,"r":42,"t":88,"b":105},"plot_bgcolor":"#F8FAFC","paper_bgcolor":"white","hovermode":"x unified","dragmode":false,"height":425,"annotations":[{"font":{"color":"#D97706","family":"DejaVu Sans, sans-serif","size":10},"showarrow":false,"text":"83.7","x":0.78,"xref":"paper","y":83.73017241379311,"yanchor":"bottom","yref":"y","yshift":3},{"font":{"color":"#64748B","size":10},"showarrow":false,"text":"Source: Deutsche Bundesbank (European Commission \u002f DG ECFIN) | As of: 2026-11-16","x":0.0,"xanchor":"left","xref":"paper","y":-0.31,"yref":"paper"},{"font":{"color":"#94A3B8","size":10.5},"showarrow":false,"text":"T.H.","x":1.0,"xanchor":"right","xref":"paper","y":-0.31,"yref":"paper"}],"xaxis":{"tickfont":{"size":10.5,"color":"#475569"},"type":"category","fixedrange":true,"tickangle":-45,"showgrid":false,"linecolor":"#94A3B8","tickmode":"array","tickvals":["2019-Q1","2019-Q3","2020-Q1","2020-Q3","2021-Q1","2021-Q3","2022-Q1","2022-Q3","2023-Q1","2023-Q3","2024-Q1","2024-Q3","2025-Q1","2025-Q3","2026-Q1","2026-Q3"],"ticktext":["2019-Q1","2019-Q3","2020-Q1","2020-Q3","2021-Q1","2021-Q3","2022-Q1","2022-Q3","2023-Q1","2023-Q3","2024-Q1","2024-Q3","2025-Q1","2025-Q3","2026-Q1","2026-Q3"]},"yaxis":{"tickfont":{"size":10.5,"color":"#475569"},"range":[66.0,90.0],"dtick":2.0,"fixedrange":true,"gridcolor":"#E2E8F0"}},                        {"displayModeBar": false, "responsive": true}                    )                };            </script>        </div>
 </body>
 </html>
